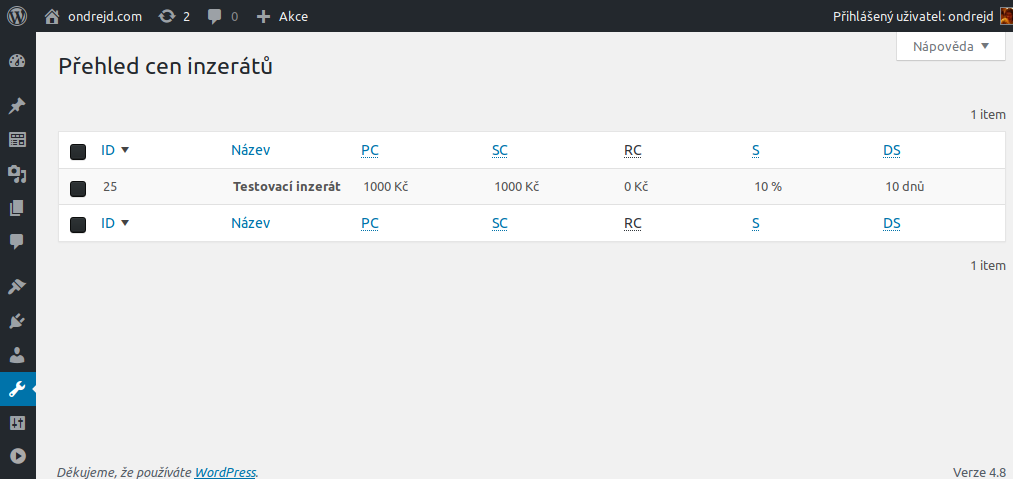
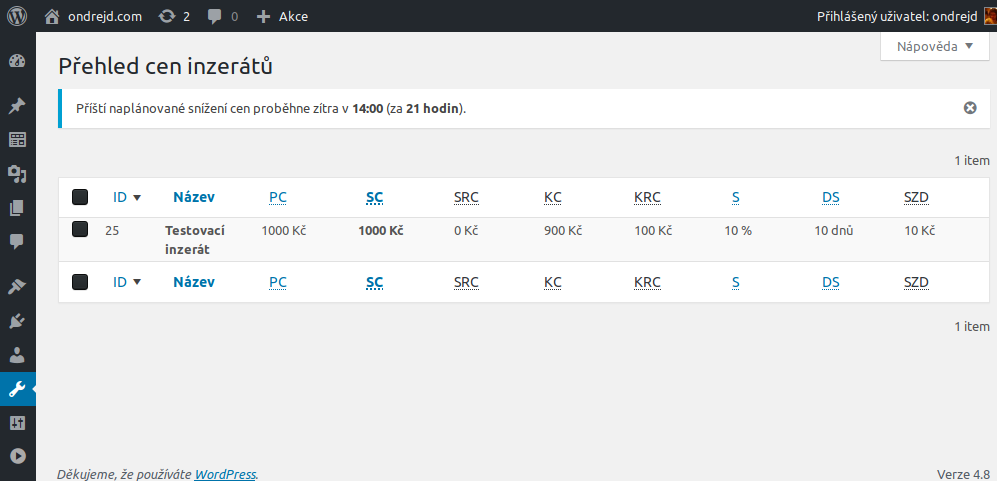
Changes in acadp items table.

diff --git a/css/admin.css b/css/admin.css
@@ -5,5 +5,21 @@
  * @package odwp-acadp-lower_price
  */
 
-/* ... */
+.widefat td, .widefat th {
+    padding: 2px 5px 2px 5px !important;
+}
+
+table.inzerty .column-id { width: 50px !important; }
+table.inzerty .column-price_diff,
+table.inzerty .column-price_diff_final,
+table.inzerty .column-price_final,
+table.inzerty .column-price_reduce,
+table.inzerty .column-price_reduce_days,
+table.inzerty .column-price_reduce_day {
+    width: 80px !important;
+}
+table.inzerty .column-title,
+table.inzerty .column-price {
+    font-weight: bold;
+}
 

diff --git a/src/ALP_Acadp_Items_Table.php b/src/ALP_Acadp_Items_Table.php
@@ -146,7 +146,7 @@ class ALP_Acadp_Items_Table extends WP_List_Table {
      * @since 1.0.0
      */
     public function column_title( ALP_Acadp_Items_Table_Item $item ) {
-        return '<b>' . $item->title . '</b>';
+        return $item->title;
     }
 
     /**
@@ -166,7 +166,37 @@ class ALP_Acadp_Items_Table extends WP_List_Table {
      * @since 1.0.0
      */
     public function column_price_diff( ALP_Acadp_Items_Table_Item $item ) {
-        return (int) $item->price_orig - (int) $item->price . ' Kč';
+        return $item->get_price_diff() . ' Kč';
+    }
+
+    /**
+     * @internal Renders contents of "price_diff_final" column.
+     * @param ALP_Acadp_Items_Table_Item $item
+     * @return string
+     * @since 1.0.0
+     */
+    public function column_price_diff_final( ALP_Acadp_Items_Table_Item $item ) {
+        return $item->get_price_diff_final() . ' Kč';
+    }
+
+    /**
+     * @internal Renders contents of "price_final" column.
+     * @param ALP_Acadp_Items_Table_Item $item
+     * @return string
+     * @since 1.0.0
+     */
+    public function column_price_final( ALP_Acadp_Items_Table_Item $item ) {
+        return $item->get_price_final() . ' Kč';
+    }
+
+    /**
+     * @internal Renders contents of "price_orig" column.
+     * @param ALP_Acadp_Items_Table_Item $item
+     * @return string
+     * @since 1.0.0
+     */
+    public function column_price_orig( ALP_Acadp_Items_Table_Item $item ) {
+        return $item->price_orig . ' Kč';
     }
 
     /**
@@ -185,6 +215,16 @@ class ALP_Acadp_Items_Table extends WP_List_Table {
      * @return string
      * @since 1.0.0
      */
+    public function column_price_reduce_day( ALP_Acadp_Items_Table_Item $item ) {
+        return $item->get_price_reduce_day() . ' Kč';
+    }
+
+    /**
+     * @internal Renders contents of "price_reduce_days" column.
+     * @param ALP_Acadp_Items_Table_Item $item
+     * @return string
+     * @since 1.0.0
+     */
     public function column_price_reduce_days( ALP_Acadp_Items_Table_Item $item ) {
         $days = (int) $item->price_reduce_days;
 
@@ -195,16 +235,6 @@ class ALP_Acadp_Items_Table extends WP_List_Table {
         }
 
         return '';
-    }
-
-    /**
-     * @internal Renders contents of "price_orig" column.
-     * @param ALP_Acadp_Items_Table_Item $item
-     * @return string
-     * @since 1.0.0
-     */
-    public function column_price_orig( ALP_Acadp_Items_Table_Item $item ) {
-        return $item->price_orig . ' Kč';
     }
 
     /**
@@ -244,9 +274,12 @@ class ALP_Acadp_Items_Table extends WP_List_Table {
             'title'             => __( 'Název', ALP_SLUG ),
             'price_orig'        => __( '<abbr title="Původní cena">PC</abbr>', ALP_SLUG ),
             'price'             => __( '<abbr title="Současná cena">SC</abbr>', ALP_SLUG ),
-            'price_diff'        => __( '<abbr title="Rozdíl cen">RC</abbr>', ALP_SLUG ),
+            'price_diff'        => __( '<abbr title="Současný rozdíl cen">SRC</abbr>', ALP_SLUG ),
+            'price_final'       => __( '<abbr title="Konečná cena">KC</abbr>', ALP_SLUG ),
+            'price_diff_final'  => __( '<abbr title="Konečný rozdíl cen">KRC</abbr>', ALP_SLUG ),
             'price_reduce'      => __( '<abbr title="Snížení v %">S</abbr>', ALP_SLUG ),
             'price_reduce_days' => __( '<abbr title="Doba snižování ve dnech">DS</abbr>', ALP_SLUG ),
+            'price_reduce_day'  => __( '<abbr title="Snížení za den v Kč">SZD</abbr>', ALP_SLUG ),
         ];
         return $columns;
     }
@@ -281,9 +314,12 @@ class ALP_Acadp_Items_Table extends WP_List_Table {
             'title'             => ['title', false],
             'price_orig'        => ['price_orig', false],
             'price'             => ['price', false],
-            //'price_diff'        => ['price', false],
+            //'price_diff'        => ['price_diff', false],
+            //'price_final'       => ['price_final', false],
+            //'price_diff_final'  => ['price_diff_final', false],
             'price_reduce'      => ['price_reduce', false],
             'price_reduce_days' => ['price_reduce_days', false],
+            //'price_reduce_day'  => ['price_reduce_day', false],
         ];
         return $columns;
     }

diff --git a/src/ALP_Plugin.php b/src/ALP_Plugin.php
@@ -66,7 +66,7 @@ class ALP_Plugin {
      */
     public static function get_default_options() {
         return [
-            'execution_time' => '01:00:00',
+            'execution_time' => '01:00',
         ];
     }
 
@@ -306,7 +306,7 @@ class ALP_Plugin {
      * @return void
      * @since 1.0.0
      */
-    protected static function print_admin_notice( $msg, $type = 'info', $dismissible = true ) {
+    public static function print_admin_notice( $msg, $type = 'info', $dismissible = true ) {
         $class = 'notice';
 
         if( in_array( $type, ['error','info','success','warning'] ) ) {
@@ -316,7 +316,7 @@ class ALP_Plugin {
         }
 
         if( $dismissible === true) {
-            $class .= ' s-dismissible';
+            $class .= ' is-dismissible';
         }
         
         printf( '<div class="%s"><p>%s</p></div>', $class, $msg );
@@ -342,6 +342,34 @@ class ALP_Plugin {
                     call_user_func( [ $screen, $method ] );
             }
         }
+    }
+
+    /**
+     * Returns array describing next scheduled event:
+     * <pre>
+     * ['next_scheduled' => '11:00', 'hours_left' => 1]
+     * </pre>
+     * @return array
+     * @since 1.0.0
+     */
+    public static function get_next_scheduled() {
+        $next = ALP_Plugin::get_option( 'execution_time' );
+        $next_txt = date( 'Y-m-d ' . $next . ':00' );
+        $next_obj = new DateTime( $next_txt );
+        $is_tomorrow = false;
+
+        if( time() > strtotime( $next_txt ) ) {
+            $is_tomorrow = true;
+            $next_obj->add( new DateInterval( 'P1D' ) );
+        }
+
+        $hours_left = $next_obj->diff( new DateTime )->format( '%h' );
+
+        return [
+            'next_scheduled' => $next,
+            'hours_left' => $hours_left,
+            'is_next_tomorrow' => $is_tomorrow,
+        ];
     }
 }
 

diff --git a/src/ALP_Acadp_Items_Table_Item.php b/src/ALP_Acadp_Items_Table_Item.php
@@ -73,6 +73,38 @@ class ALP_Acadp_Items_Table_Item {
         $this->price_reduce_days = (int) $price_reduce_days;
         $this->price_orig        = (int) $price_orig;
     }
+
+    /**
+     * @return integer Final price (after reduce).
+     * @since 1.0.0
+     */
+    public function get_price_final() {
+        return ( (int) $this->price_orig / 100 ) * ( 100 - (int) $this->price_reduce );
+    }
+
+    /**
+     * @return integer Current price difference.
+     * @since 1.0.0
+     */
+    public function get_price_diff() {
+        return (int) $this->price_orig - (int) $this->price;
+    }
+
+    /**
+     * @return integer Final price difference.
+     * @since 1.0.0
+     */
+    public function get_price_diff_final() {
+        return $this->price_orig - $this->get_price_final();
+    }
+
+    /**
+     * @return integer Amount of day price reduce.
+     * @since 1.0.0
+     */
+    public function get_price_reduce_day() {
+        return $this->get_price_diff_final() / (int) $this->price_reduce_days;
+    }
 }
 
 endif;
